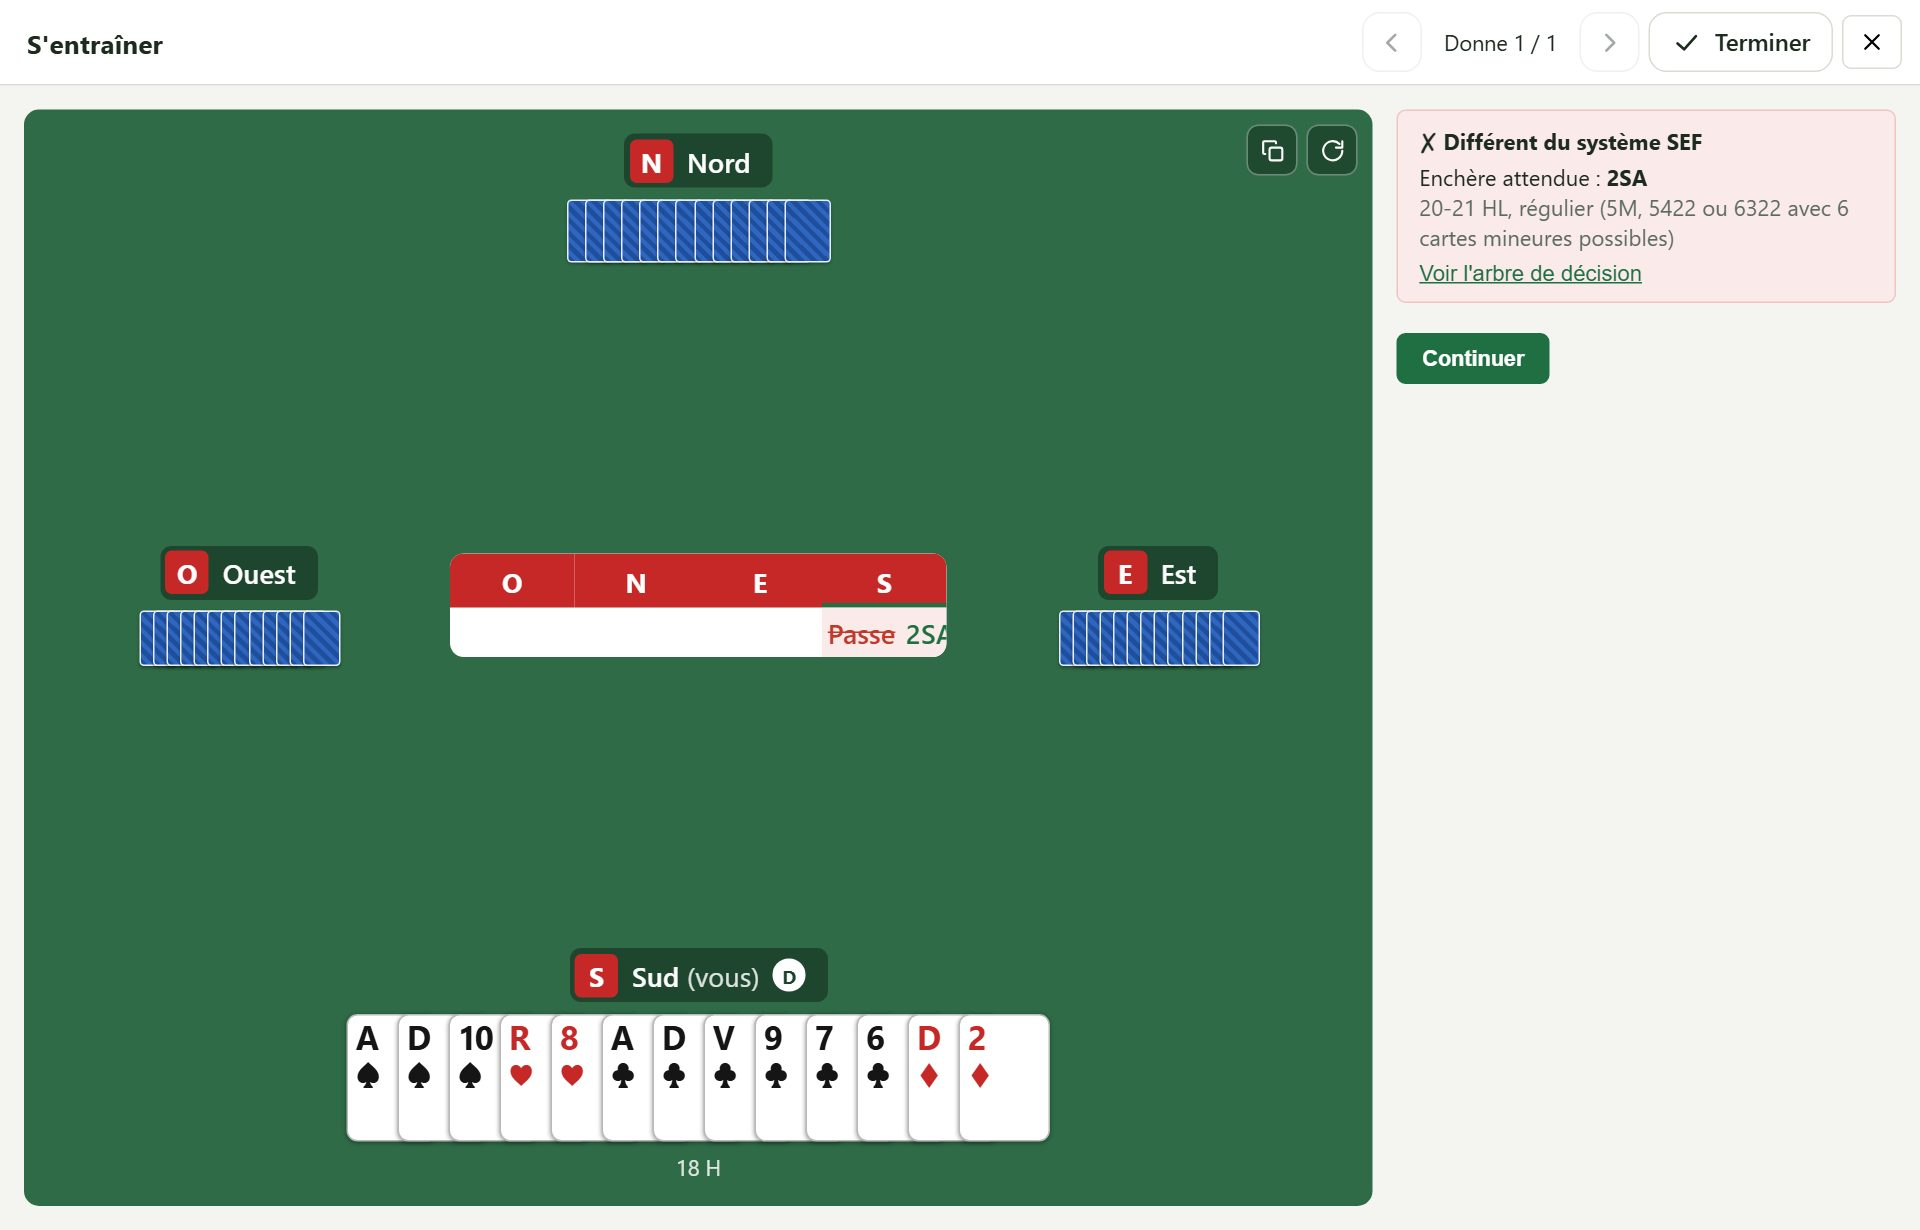
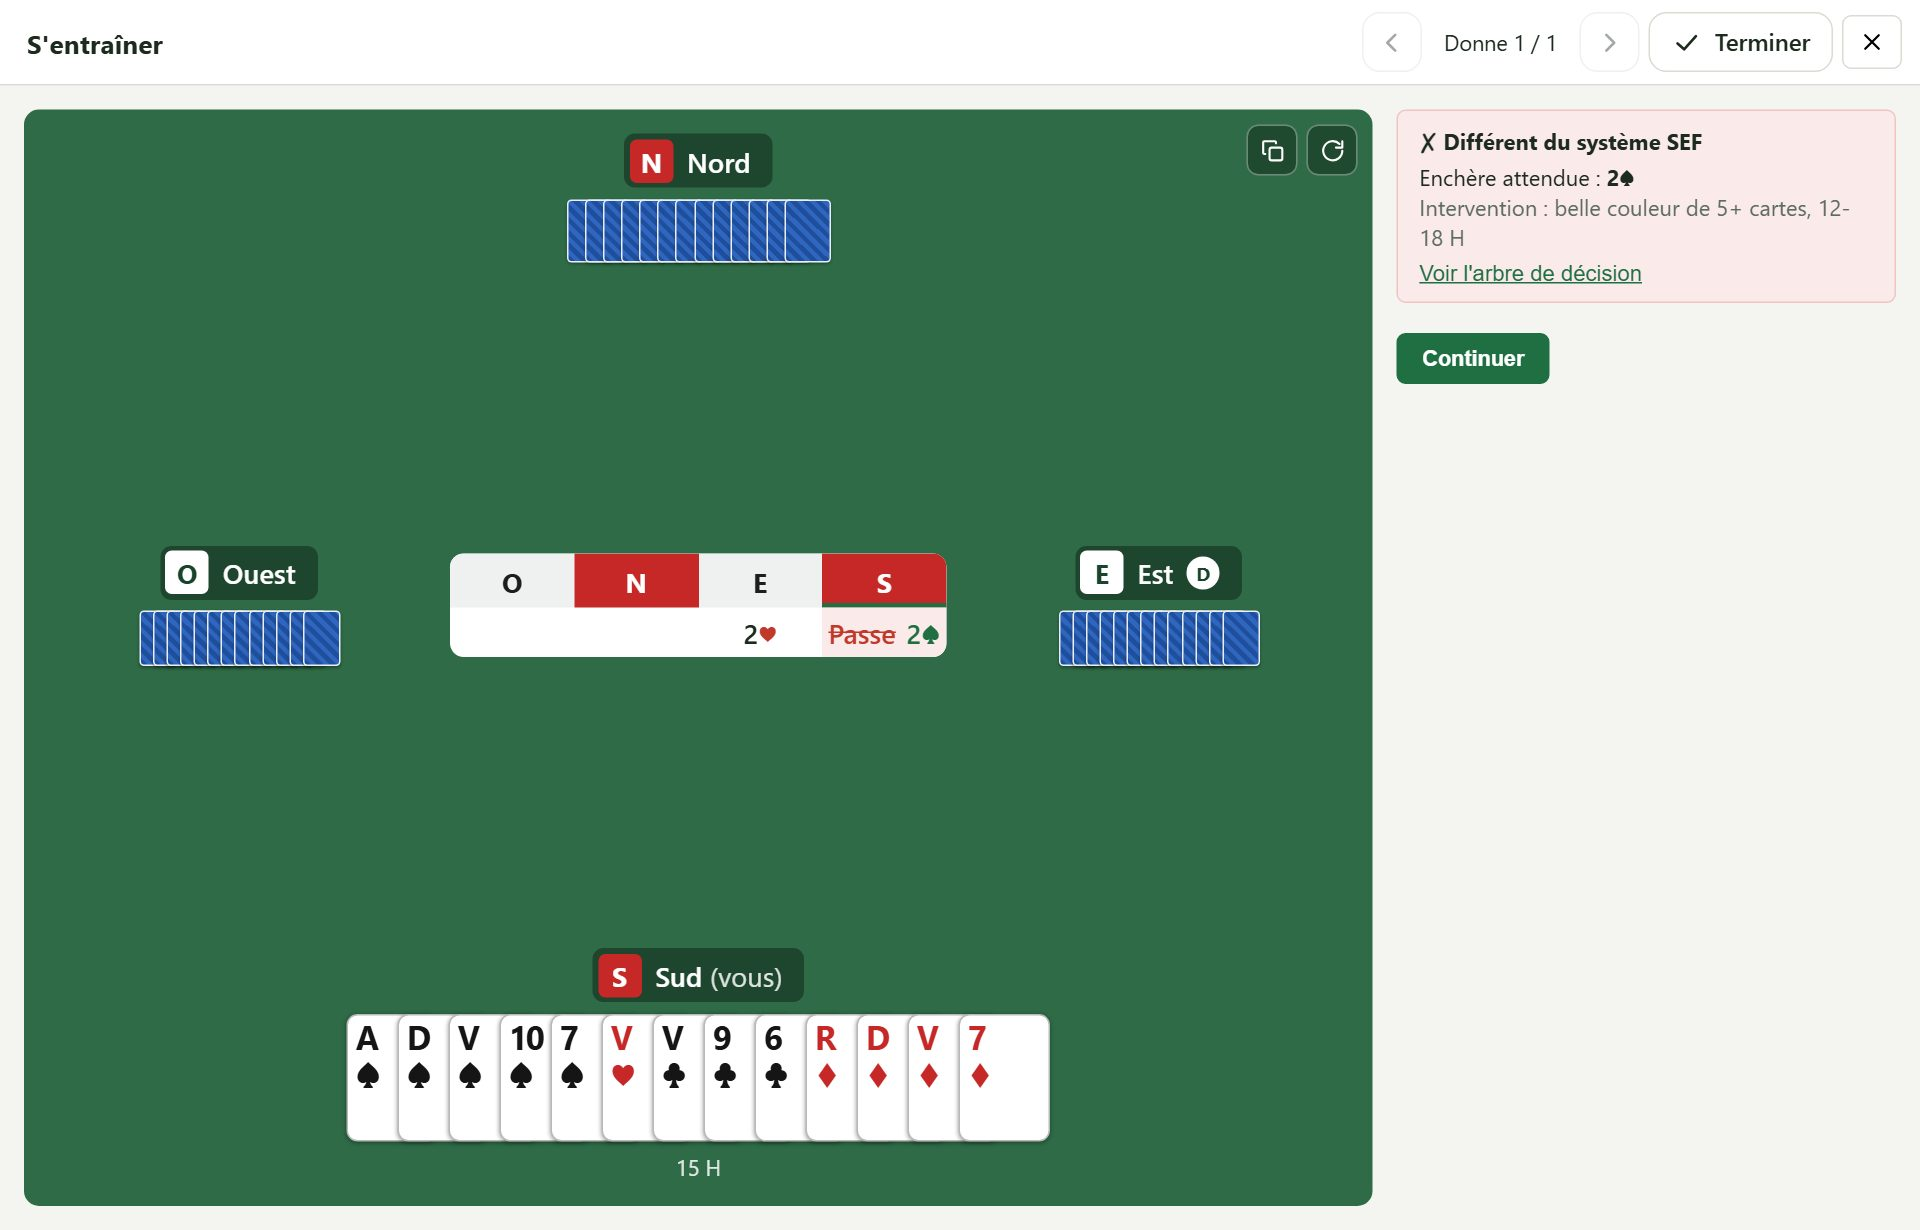
Entraînement : la bonne enchère passe sans message, seule l'erreur s'affiche
- Une enchère conforme au SEF enchaîne aussitôt sur la suite de la donne,
  sans verdict ni bouton Continuer ; l'erreur garde son message, l'enchère
  attendue, l'arbre de décision et Continuer.
- Le score de Terminer compte toujours toutes les enchères.
- Aide en ligne, README, tutoriel et capture 13 (qui montre une erreur) à jour.

diff --git a/cli/app.js b/cli/app.js
@@ -273,7 +273,6 @@ const UI_TEXT = {
     bbStrain: "Dénomination",
     bbKeys: "Clavier : 1 à 7 pour le palier, C D H S N pour ♣ ♦ ♥ ♠ SA, P pour passe, X pour contre.",
     quizAboutToBid: (seat) => `${seat} va annoncer.`,
-    quizCorrect: "✓ Correct !",
     quizWrong: "✗ Différent du système SEF",
     quizExpected: "Enchère attendue",
     treeShow: "Voir l'arbre de décision",
@@ -478,7 +477,6 @@ const UI_TEXT = {
     bbStrain: "Strain",
     bbKeys: "Keyboard: 1 to 7 for the level, C D H S N for ♣ ♦ ♥ ♠ NT, P to pass, X to double.",
     quizAboutToBid: (seat) => `${seat} is about to bid.`,
-    quizCorrect: "✓ Correct!",
     quizWrong: "✗ Not what the SEF system bids",
     quizExpected: "Expected call",
     treeShow: "Show the decision tree",
@@ -4875,8 +4873,8 @@ function renderBiddingStrains() {
 // ---------- s'entraîner : la table ----------
 //
 // Une séance d'entraînement : on choisit sa main, puis on enchérit sur des
-// donnes tirées au hasard, comme « Donne aléatoire » (parmi les donnes
-// thématiques si l'option est cochée, voir drawPracticePBN). Chaque donne est
+// donnes distribuées au hasard ou tirées des donnes thématiques (voir
+// drawPracticePBN). Chaque donne est
 // une « table » : l'enchère complète du moteur, et ce que l'on y a répondu.
 // Le thème d'une donne n'apparaît pas à la table, pour ne rien souffler :
 // seul le score de « Terminer » le cite, une fois les enchères faites.
@@ -5162,20 +5160,24 @@ function chooseBid(bidText) {
   quiz.idx++;
 
   $("#bidding-box").classList.add("hidden");
+  // La bonne enchère ne s'annonce pas : la donne continue aussitôt. Seule
+  // l'erreur arrête la table, le temps de lire l'enchère attendue.
+  if (isCorrect) {
+    renderQuizStep();
+    return;
+  }
   renderTrainTable(null);
 
   const lang = quiz.lang;
   const t = UI_TEXT[lang];
   const fb = $("#quiz-feedback");
-  fb.className = "quiz-feedback " + (isCorrect ? "correct" : "incorrect");
-  const verdict = esc(isCorrect ? t.quizCorrect : t.quizWrong);
-  const refLine = isCorrect
-    ? ""
-    : `<div>${withColon(esc(t.quizExpected), lang)} <b>${bidHTML(entry.bid, lang)}</b></div>`;
+  fb.className = "quiz-feedback incorrect";
+  const verdict = esc(t.quizWrong);
+  const refLine = `<div>${withColon(esc(t.quizExpected), lang)} <b>${bidHTML(entry.bid, lang)}</b></div>`;
   const commentLine = entry.comment
     ? `<div class="muted">${esc(entry.comment)}</div>`
     : "";
-  const treeLine = isCorrect ? "" : decisionTreeToggleHTML(entry, lang);
+  const treeLine = decisionTreeToggleHTML(entry, lang);
   fb.innerHTML = `<span class="verdict">${verdict}</span>${refLine}${commentLine}${treeLine}`;
   fb.classList.remove("hidden");
   $("#train-turn").textContent = "";
@@ -5730,8 +5732,8 @@ const TUTORIAL_STEPS = [
     en: ["The table", "Your hand at the bottom, the other three face down; in the middle the auction box, vulnerable seats in red. The other players' calls come in by themselves.\nOn your turn, the bidding box: a level (1 to 7), then a suit or NT; or Pass, Double, Redouble. By keyboard: 1 to 7, then C D H S N, P, X."],
   },
   {
-    fr: ["La réponse", "Vous voyez aussitôt si votre enchère est celle du SEF ; sinon, l'enchère attendue et son explication, et l'arbre de décision sur votre main. Continuer passe à la suite.\nL'enchère finie, les quatre mains se dévoilent ; ‹ et › font défiler les donnes jouées, Donne suivante en tire une nouvelle."],
-    en: ["The answer", "You see at once whether your call is the SEF one; if not, the expected call with its explanation, and the decision tree on your hand. Continue moves on.\nOnce the auction is over, all four hands are shown; ‹ and › scroll through the deals played, Next deal draws a new one."],
+    fr: ["La réponse", "Une enchère conforme au SEF passe sans rien afficher : la donne continue. Une erreur arrête la table : l'enchère attendue et son explication, et l'arbre de décision sur votre main ; Continuer passe à la suite.\nL'enchère finie, les quatre mains se dévoilent ; ‹ et › font défiler les donnes jouées, Donne suivante en tire une nouvelle."],
+    en: ["The answer", "A call matching the SEF goes through silently: the deal goes on. A mistake stops the table: the expected call with its explanation, and the decision tree on your hand; Continue moves on.\nOnce the auction is over, all four hands are shown; ‹ and › scroll through the deals played, Next deal draws a new one."],
   },
   {
     fr: ["Le score", "Terminer affiche votre score sur toute la séance, puis donne par donne : contrat, score et enchères ratées avec l'enchère attendue.\nRevoir rouvre une donne ; Reprendre l'entraînement revient à la table."],

diff --git a/cli/index.html b/cli/index.html
@@ -680,7 +680,7 @@
           <li>Votre main est toujours <b>en bas</b>, face visible ; les trois autres joueurs ont le dos tourné (à gauche, celui qui parle après vous ; en face, votre partenaire). Au centre, la boîte des enchères : les sièges vulnérables y sont en rouge, et un <b>?</b> marque le tour de parole. La plaque du joueur qui parle s'éclaire en jaune.</li>
           <li>Les enchères des autres joueurs arrivent d'elles-mêmes, l'une après l'autre.</li>
           <li>À votre tour, la <b>boîte à enchères</b> : choisissez un <b>palier</b> (1 à 7 ; le plus bas encore permis est déjà choisi), puis une <b>dénomination</b> (♣ ♦ ♥ ♠ SA), ou Passe, X (contre), XX (surcontre). Elle ne propose que les enchères permises ; le clavier marche aussi (voir §9).</li>
-          <li>Vous voyez aussitôt si votre enchère est celle du SEF, sinon l'enchère attendue et son explication ; <b>Continuer</b> passe à la suite. Après une erreur, <b>Voir l'arbre de décision</b> montre le chemin suivi par le moteur sur votre main.</li>
+          <li>Une enchère conforme au SEF passe sans rien afficher : la donne continue. Une erreur arrête la table, avec l'enchère attendue et son explication ; <b>Continuer</b> passe à la suite. Après une erreur, <b>Voir l'arbre de décision</b> montre le chemin suivi par le moteur sur votre main.</li>
           <li>L'enchère finie, les quatre mains se dévoilent et le contrat s'affiche, sans score. <b>Donne suivante</b> (ou ›) tire la donne suivante.</li>
           <li><b>‹</b> et <b>›</b> font défiler les donnes déjà jouées, pour les revoir ; › ne tire une nouvelle donne qu'une fois l'enchère en cours finie.</li>
           <li><b>Terminer</b> affiche votre <b>score</b> sur l'ensemble de la séance (enchères conformes au SEF sur vos enchères, en pourcentage), puis donne par donne avec vos erreurs ; <b>Revoir</b> rouvre une donne, <b>Reprendre l'entraînement</b> revient à la table. La croix ferme l'entraînement.</li>
@@ -805,7 +805,7 @@
           <li>Your hand is always <b>at the bottom</b>, face up; the other three players' cards are face down (on your left, the player who bids after you; opposite, your partner). In the middle, the auction box: vulnerable seats are shown in red, and a <b>?</b> marks whose turn it is. The plate of the player to bid lights up in yellow.</li>
           <li>The other players' calls appear on their own, one after another.</li>
           <li>On your turn, the <b>bidding box</b>: pick a <b>level</b> (1 to 7; the lowest one still allowed is already picked), then a <b>strain</b> (♣ ♦ ♥ ♠ NT), or Pass, Double, Redouble. It only offers legal calls; the keyboard works too (see §9).</li>
-          <li>You see at once whether your call matches the SEF, and if not, the expected call and why; <b>Continue</b> moves on. After a mistake, <b>Show the decision tree</b> displays the path the engine followed on your hand.</li>
+          <li>A call matching the SEF goes through silently: the deal goes on. A mistake stops the table, with the expected call and why; <b>Continue</b> moves on. After a mistake, <b>Show the decision tree</b> displays the path the engine followed on your hand.</li>
           <li>Once the auction is over, all four hands are shown with the contract, and no score. <b>Next deal</b> (or ›) draws the next deal.</li>
           <li><b>‹</b> and <b>›</b> scroll through the deals already played, to review them; › only draws a new deal once the current auction is over.</li>
           <li><b>Finish</b> shows your <b>score</b> for the whole session (calls matching the SEF out of your calls, as a percentage), then deal by deal with your mistakes; <b>Review</b> reopens a deal, <b>Back to practice</b> returns to the table. The cross closes the practice.</li>

diff --git a/tools/tutorial/capture.js b/tools/tutorial/capture.js
@@ -165,8 +165,13 @@ async function scenes(browser, lang, dir) {
   await page.waitForTimeout(300);
   await page.screenshot({ path: out(12), type: "jpeg", quality: QUALITY });
 
-  // 13. La réponse : correcte ou non, avec l'enchère attendue.
-  await page.locator("#bidding-box .bb-pass").click();
+  // 13. La réponse, après une erreur : la bonne enchère ne s'affiche pas, la
+  // donne continue. Passe, sauf si c'est justement l'enchère attendue : alors
+  // la première couleur permise, au palier présélectionné.
+  const passIsRight = await page.evaluate(() =>
+    quiz.result.auction[quiz.idx].bid === document.querySelector("#bidding-box .bb-pass").dataset.bid);
+  if (passIsRight) await page.locator("#bidding-box .bb-strain:not([disabled])").first().click();
+  else await page.locator("#bidding-box .bb-pass").click();
   await page.waitForSelector("#quiz-feedback:not(.hidden)", { timeout: 10000 }).catch(() => {});
   await page.waitForTimeout(300);
   await page.screenshot({ path: out(13), type: "jpeg", quality: QUALITY });

diff --git a/cli/style.css b/cli/style.css
@@ -1370,7 +1370,6 @@ select:disabled { background: var(--disabled-bg); color: var(--muted); cursor: n
   margin-bottom: 10px;
   font-size: .92rem;
 }
-.quiz-feedback.correct { background: var(--success-bg); border: 1px solid var(--success-border); }
 .quiz-feedback.incorrect { background: var(--error-bg); border: 1px solid var(--error-border); }
 .quiz-feedback .verdict { font-weight: 700; display: block; margin-bottom: 4px; }
 .quiz-feedback .tree-toggle { margin-top: 6px; }

diff --git a/README.md b/README.md
@@ -352,7 +352,7 @@ Le bouton **S'entraîner**, après **Partager**, ouvre d'abord le choix de **vot
 - **À votre tour**, une **boîte à enchères** à deux étages, comme en club : une rangée de **paliers** (1 à 7, le plus bas encore permis présélectionné), une rangée de **dénominations** (♣ ♦ ♥ ♠ SA), puis Passe, X (contre) et XX (surcontre).
   - Au clavier : un chiffre, puis C D H S N ; P passe, X contre (ou surcontre).
   - Elle n'ouvre que les enchères **légales**.
-- **Le verdict est immédiat** : votre enchère est comparée à celle du moteur, avec l'enchère attendue et son commentaire SEF, puis **Continuer**. Après une mauvaise réponse, **Voir l'arbre de décision** déplie le chemin suivi par le moteur sur la main (voir le champ `trace` ci-dessous).
+- **Seule l'erreur s'affiche** : votre enchère est comparée à celle du moteur. Conforme, elle passe sans message et la donne continue ; sinon la table s'arrête sur l'enchère attendue et son commentaire SEF, puis **Continuer**. Après une mauvaise réponse, **Voir l'arbre de décision** déplie le chemin suivi par le moteur sur la main (voir le champ `trace` ci-dessous).
 - **L'enchère finie**, les quatre mains se dévoilent et le contrat s'affiche, **sans score**. **Donne suivante** tire la donne suivante.
 - **‹ et ›** font défiler les donnes déjà jouées, dans leur état final. › ne tire une nouvelle donne qu'une fois l'enchère en cours finie.
 - **Terminer** affiche le **score de la séance** : les enchères conformes au SEF sur toutes vos enchères, en nombre et en pourcentage. Suit la liste donne par donne (contrat, score, enchères ratées avec l'enchère attendue).
